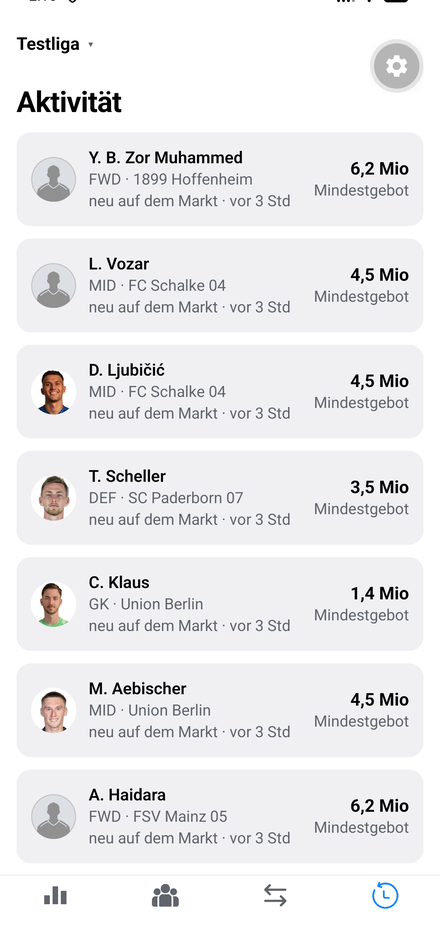
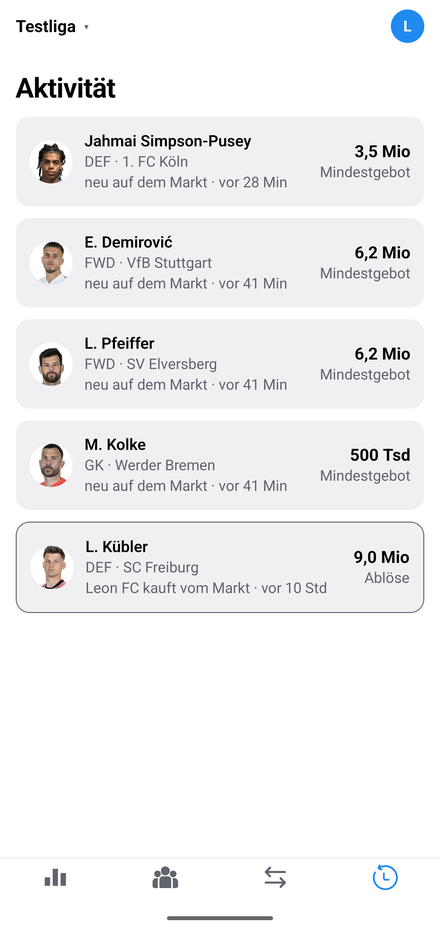
Profil oben rechts, Einstellungen und die Wahl zwischen hell und dunkel
Die Kopfzeile hatte rechts nichts, und die Abmeldung lag im Liga-Dropdown -
dort sucht sie niemand. Jetzt steht rechts ein Profilkreis (Foto, sonst der
Anfangsbuchstabe), und dahinter liegt ein Bildschirm mit Profil, Anzeige und
Abmeldung.

Die Anzeige kann System, Hell oder Dunkel sein und liegt in AsyncStorage. Bis
jetzt kam das Farbschema direkt vom Telefon; useColors fragt nun die
Einstellung, und das Navigations-Theme folgt derselben Wahl.

Screenshots neu aufgenommen: die Kopfzeile ist auf allen vier Tabs zu sehen.

diff --git a/app/src/components/league-switcher.tsx b/app/src/components/league-switcher.tsx
@@ -1,10 +1,11 @@
 import { useState } from "react";
-import { Modal, Pressable, ScrollView, Share, StyleSheet, View } from "react-native";
+import { Image, Modal, Pressable, ScrollView, Share, StyleSheet, View } from "react-native";
 import * as Linking from "expo-linking";
+import { useRouter } from "expo-router";
 import { useSafeAreaInsets } from "react-native-safe-area-context";
 import { api } from "@/lib/api";
 import { useSession } from "@/lib/session";
-import { Body, Button, ErrorText, Field, useColors } from "@/components/ui";
+import { ACCENT, Body, Button, ErrorText, Field, useColors } from "@/components/ui";
 
 /**
  * Kopfzeile ueber allen Tabs: zeigt die aktive Liga und wechselt sie.
@@ -12,7 +13,8 @@ import { Body, Button, ErrorText, Field, useColors } from "@/components/ui";
  * Ranking, Kader, Markt und Aktivitaeten stehen, und kein eigener Ort.
  */
 export function LeagueSwitcher() {
-  const { me, token, activeLeagueId, setActiveLeague, refresh, signOut } = useSession();
+  const { me, token, activeLeagueId, setActiveLeague, refresh } = useSession();
+  const router = useRouter();
   const insets = useSafeAreaInsets();
   const c = useColors();
   const [offen, setOffen] = useState(false);
@@ -43,13 +45,23 @@ export function LeagueSwitcher() {
 
   return (
     <View style={{ paddingTop: insets.top, backgroundColor: c.background }}>
-      <Pressable
-        onPress={() => setOffen(true)}
-        style={({ pressed }) => [styles.bar, pressed && { opacity: 0.6 }]}
-      >
-        <Body style={styles.ligaName}>{aktiv?.name ?? "Keine Liga"}</Body>
-        <Body dim>▾</Body>
-      </Pressable>
+      <View style={styles.bar}>
+        <Pressable
+          onPress={() => setOffen(true)}
+          style={({ pressed }) => [styles.liga, pressed && { opacity: 0.6 }]}
+        >
+          <Body style={styles.ligaName}>{aktiv?.name ?? "Keine Liga"}</Body>
+          <Body dim>▾</Body>
+        </Pressable>
+
+        <Pressable
+          onPress={() => router.push("/settings")}
+          accessibilityLabel="Profil und Einstellungen"
+          style={({ pressed }) => pressed && { opacity: 0.6 }}
+        >
+          <Profilkreis name={me?.user.name} bild={me?.user.image ?? null} />
+        </Pressable>
+      </View>
 
       <Modal
         visible={offen}
@@ -116,17 +128,30 @@ export function LeagueSwitcher() {
             )}
 
             <Button label="Schließen" variant="ghost" onPress={() => setOffen(false)} />
-            <Button
-              label="Abmelden"
-              variant="ghost"
-              onPress={async () => {
-                setOffen(false);
-                await signOut();
-              }}
-            />
           </ScrollView>
         </View>
       </Modal>
+    </View>
+  );
+}
+
+/** Foto, sonst der Anfangsbuchstabe - eine leere Scheibe waere kein Profil. */
+export function Profilkreis({
+  name,
+  bild,
+  groesse = 34,
+}: {
+  name?: string;
+  bild?: string | null;
+  groesse?: number;
+}) {
+  const kreis = { width: groesse, height: groesse, borderRadius: groesse / 2 };
+  if (bild) return <Image source={{ uri: bild }} style={kreis} />;
+  return (
+    <View style={[kreis, styles.kreis]}>
+      <Body style={[styles.initiale, { fontSize: groesse * 0.45 }]}>
+        {(name ?? "?").trim().charAt(0).toUpperCase()}
+      </Body>
     </View>
   );
 }
@@ -139,6 +164,9 @@ const styles = StyleSheet.create({
     paddingHorizontal: 16,
     paddingVertical: 10,
   },
+  liga: { flexDirection: "row", alignItems: "center", gap: 8, flex: 1 },
+  kreis: { backgroundColor: ACCENT, alignItems: "center", justifyContent: "center" },
+  initiale: { color: "#fff", fontWeight: "700" },
   ligaName: { fontSize: 17, fontWeight: "700" },
   backdrop: { position: "absolute", top: 0, left: 0, right: 0, bottom: 0, backgroundColor: "#0008" },
   sheet: { maxHeight: "85%", borderBottomLeftRadius: 18, borderBottomRightRadius: 18 },

diff --git a/app/src/app/settings.tsx b/app/src/app/settings.tsx
@@ -1,0 +1,84 @@
+import { Pressable, StyleSheet, View } from "react-native";
+import { useRouter } from "expo-router";
+import { useSession } from "@/lib/session";
+import { useThemeMode, type ThemeMode } from "@/lib/theme";
+import { Profilkreis } from "@/components/league-switcher";
+import { ACCENT, Body, Button, Card, Screen, Title, useColors } from "@/components/ui";
+
+const ANZEIGE: { mode: ThemeMode; label: string; hinweis: string }[] = [
+  { mode: "system", label: "System", hinweis: "folgt dem Telefon" },
+  { mode: "light", label: "Hell", hinweis: "immer hell" },
+  { mode: "dark", label: "Dunkel", hinweis: "immer dunkel" },
+];
+
+export default function SettingsScreen() {
+  const { me, signOut } = useSession();
+  const { mode, setMode } = useThemeMode();
+  const router = useRouter();
+  const c = useColors();
+
+  return (
+    <Screen>
+      <Pressable onPress={() => router.back()}>
+        <Body dim>‹ Zurück</Body>
+      </Pressable>
+
+      <View style={styles.kopf}>
+        <Profilkreis name={me?.user.name} bild={me?.user.image ?? null} groesse={64} />
+        <View style={{ flex: 1 }}>
+          <Title>{me?.user.name ?? "Profil"}</Title>
+          <Body dim>
+            {me?.leagues.length
+              ? `${me.leagues.length} ${me.leagues.length === 1 ? "Liga" : "Ligen"}`
+              : "noch keine Liga"}
+          </Body>
+        </View>
+      </View>
+
+      <Card>
+        <Body dim>Anzeige</Body>
+        <View style={styles.chips}>
+          {ANZEIGE.map((a) => {
+            const gewaehlt = a.mode === mode;
+            return (
+              <Pressable
+                key={a.mode}
+                onPress={() => setMode(a.mode)}
+                style={[
+                  styles.chip,
+                  { backgroundColor: gewaehlt ? ACCENT : c.backgroundSelected },
+                ]}
+              >
+                <Body style={{ color: gewaehlt ? "#fff" : c.text }}>{a.label}</Body>
+              </Pressable>
+            );
+          })}
+        </View>
+        <Body dim>{ANZEIGE.find((a) => a.mode === mode)?.hinweis}</Body>
+      </Card>
+
+      <Card>
+        <Body dim>Konto</Body>
+        <Body>
+          Angemeldet über den Entwicklungs-Login. Echtes Google-Konto kommt, sobald der
+          Server unter fester Adresse läuft.
+        </Body>
+      </Card>
+
+      <Button
+        label="Abmelden"
+        variant="ghost"
+        onPress={async () => {
+          router.back();
+          await signOut();
+        }}
+      />
+    </Screen>
+  );
+}
+
+const styles = StyleSheet.create({
+  kopf: { flexDirection: "row", alignItems: "center", gap: 14 },
+  chips: { flexDirection: "row", flexWrap: "wrap", gap: 8 },
+  chip: { paddingHorizontal: 14, paddingVertical: 10, borderRadius: 10 },
+});

diff --git a/app/src/lib/theme.tsx b/app/src/lib/theme.tsx
@@ -1,0 +1,51 @@
+import {
+  createContext,
+  useContext,
+  useEffect,
+  useState,
+  type ReactNode,
+} from "react";
+import { useColorScheme } from "react-native";
+import AsyncStorage from "@react-native-async-storage/async-storage";
+
+const KEY = "rivalleague.theme";
+
+export type ThemeMode = "system" | "light" | "dark";
+export type Scheme = "light" | "dark";
+
+type Value = { mode: ThemeMode; scheme: Scheme; setMode: (m: ThemeMode) => void };
+
+const Ctx = createContext<Value | null>(null);
+
+/**
+ * Hell oder dunkel, und wer das entscheidet. "system" folgt dem Telefon -
+ * das ist die Vorgabe, weil die meisten ihre Wahl dort einmal treffen und
+ * nicht in jeder App wiederholen wollen.
+ */
+export function ThemeProvider({ children }: { children: ReactNode }) {
+  const vomSystem = useColorScheme();
+  const [mode, setModeState] = useState<ThemeMode>("system");
+
+  useEffect(() => {
+    void AsyncStorage.getItem(KEY).then((gespeichert) => {
+      if (gespeichert === "light" || gespeichert === "dark" || gespeichert === "system") {
+        setModeState(gespeichert);
+      }
+    });
+  }, []);
+
+  function setMode(m: ThemeMode) {
+    setModeState(m);
+    void AsyncStorage.setItem(KEY, m);
+  }
+
+  const scheme: Scheme = mode === "system" ? (vomSystem === "dark" ? "dark" : "light") : mode;
+
+  return <Ctx.Provider value={{ mode, scheme, setMode }}>{children}</Ctx.Provider>;
+}
+
+export function useThemeMode(): Value {
+  const ctx = useContext(Ctx);
+  // Ohne Provider bleibt es hell - besser als ein Absturz im Modal-Baum.
+  return ctx ?? { mode: "system", scheme: "light", setMode: () => {} };
+}

diff --git a/app/src/app/_layout.tsx b/app/src/app/_layout.tsx
@@ -1,8 +1,8 @@
 import { DarkTheme, DefaultTheme, Stack, ThemeProvider, useRouter, useSegments } from "expo-router";
 import { useEffect } from "react";
-import { useColorScheme } from "react-native";
 import { SafeAreaProvider } from "react-native-safe-area-context";
 import { SessionProvider, useSession } from "@/lib/session";
+import { ThemeProvider as ThemeModeProvider, useThemeMode } from "@/lib/theme";
 import { Loading } from "@/components/ui";
 
 function Gate() {
@@ -23,20 +23,29 @@ function Gate() {
     <Stack screenOptions={{ headerShown: false }}>
       <Stack.Screen name="(tabs)" />
       <Stack.Screen name="login" />
+      <Stack.Screen name="settings" />
       <Stack.Screen name="join/[code]" options={{ presentation: "modal" }} />
     </Stack>
   );
 }
 
+function Navigation() {
+  const { scheme } = useThemeMode();
+  return (
+    <ThemeProvider value={scheme === "dark" ? DarkTheme : DefaultTheme}>
+      <SessionProvider>
+        <Gate />
+      </SessionProvider>
+    </ThemeProvider>
+  );
+}
+
 export default function RootLayout() {
-  const scheme = useColorScheme();
   return (
     <SafeAreaProvider>
-      <ThemeProvider value={scheme === "dark" ? DarkTheme : DefaultTheme}>
-        <SessionProvider>
-          <Gate />
-        </SessionProvider>
-      </ThemeProvider>
+      <ThemeModeProvider>
+        <Navigation />
+      </ThemeModeProvider>
     </SafeAreaProvider>
   );
 }

diff --git a/app/src/components/ui.tsx b/app/src/components/ui.tsx
@@ -6,17 +6,16 @@ import {
   Text,
   TextInput,
   View,
-  useColorScheme,
   type TextInputProps,
   type RefreshControlProps,
   type ViewProps,
 } from "react-native";
 import { SafeAreaView } from "react-native-safe-area-context";
 import { Colors } from "@/constants/theme";
+import { useThemeMode } from "@/lib/theme";
 
 export function useColors() {
-  const scheme = useColorScheme();
-  return Colors[scheme === "dark" ? "dark" : "light"];
+  return Colors[useThemeMode().scheme];
 }
 
 export const ACCENT = "#208AEF";

diff --git a/README.md b/README.md
@@ -7,7 +7,7 @@ aus den echten Spielen des Wochenendes.
 
 <p align="center">
   <img src="docs/screenshots/ranking.png" width="200" alt="Ranking mit Tabelle und Vermögensverlauf">
-  <img src="docs/screenshots/kader.png" width="200" alt="Kader mit Formation und leeren Plätzen">
+  <img src="docs/screenshots/kader.png" width="200" alt="Kader mit der Startelf auf dem Spielfeld">
   <img src="docs/screenshots/markt.png" width="200" alt="Transfermarkt mit Angeboten">
   <img src="docs/screenshots/aktivitaet.png" width="200" alt="Aktivitätenfeed">
 </p>
@@ -34,6 +34,9 @@ aus den echten Spielen des Wochenendes.
   seine Form der letzten drei Spieltage angepasst.
 - **Aktivitätenfeed.** Alle Käufe und Verkäufe der Mitspieler und alles, was neu auf
   dem Markt liegt, in einem Zeitstrahl.
+- **Profil und Einstellungen** hinter dem Kreis oben rechts: dort steht, in wie vielen
+  Ligen man spielt, dort liegt die Abmeldung, und dort wählt man die Anzeige —
+  System, Hell oder Dunkel. Die Wahl bleibt auf dem Gerät.
 - **Punkte nach echten Spielen**, inklusive Prämie: 20.000 € je Spieltagspunkt.
 - **Punkte je Spiel pro Spieler.** Die Spielerseite listet jede Partie einzeln auf —
   Gegner, Ergebnis, Einsatzminuten und die Punkte daraus — dazu Summe und Schnitt.
